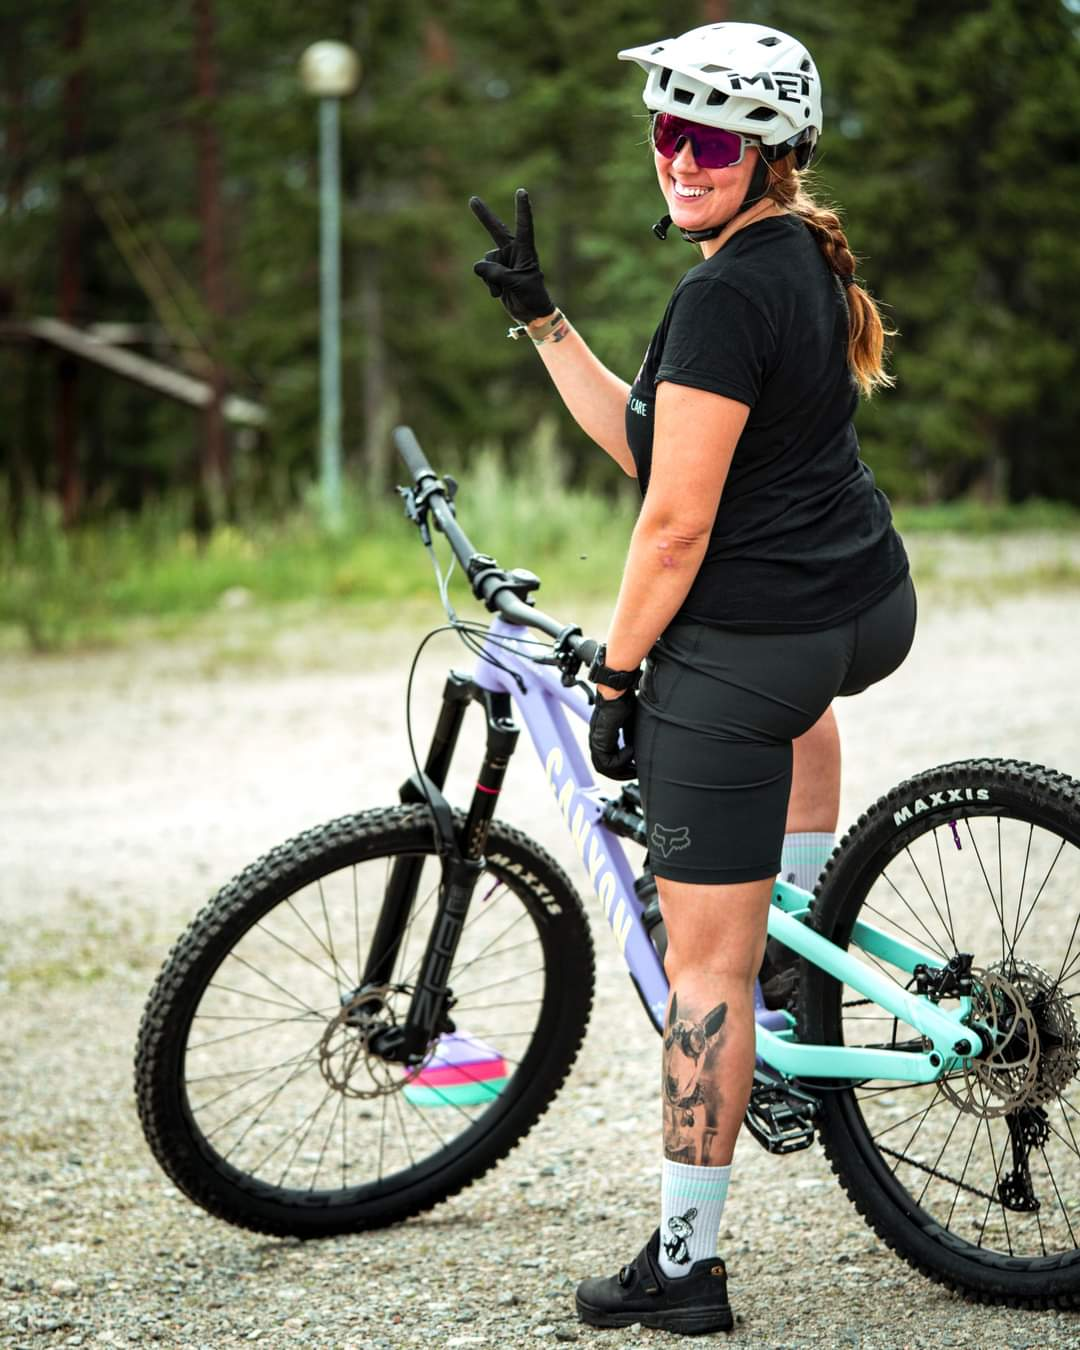
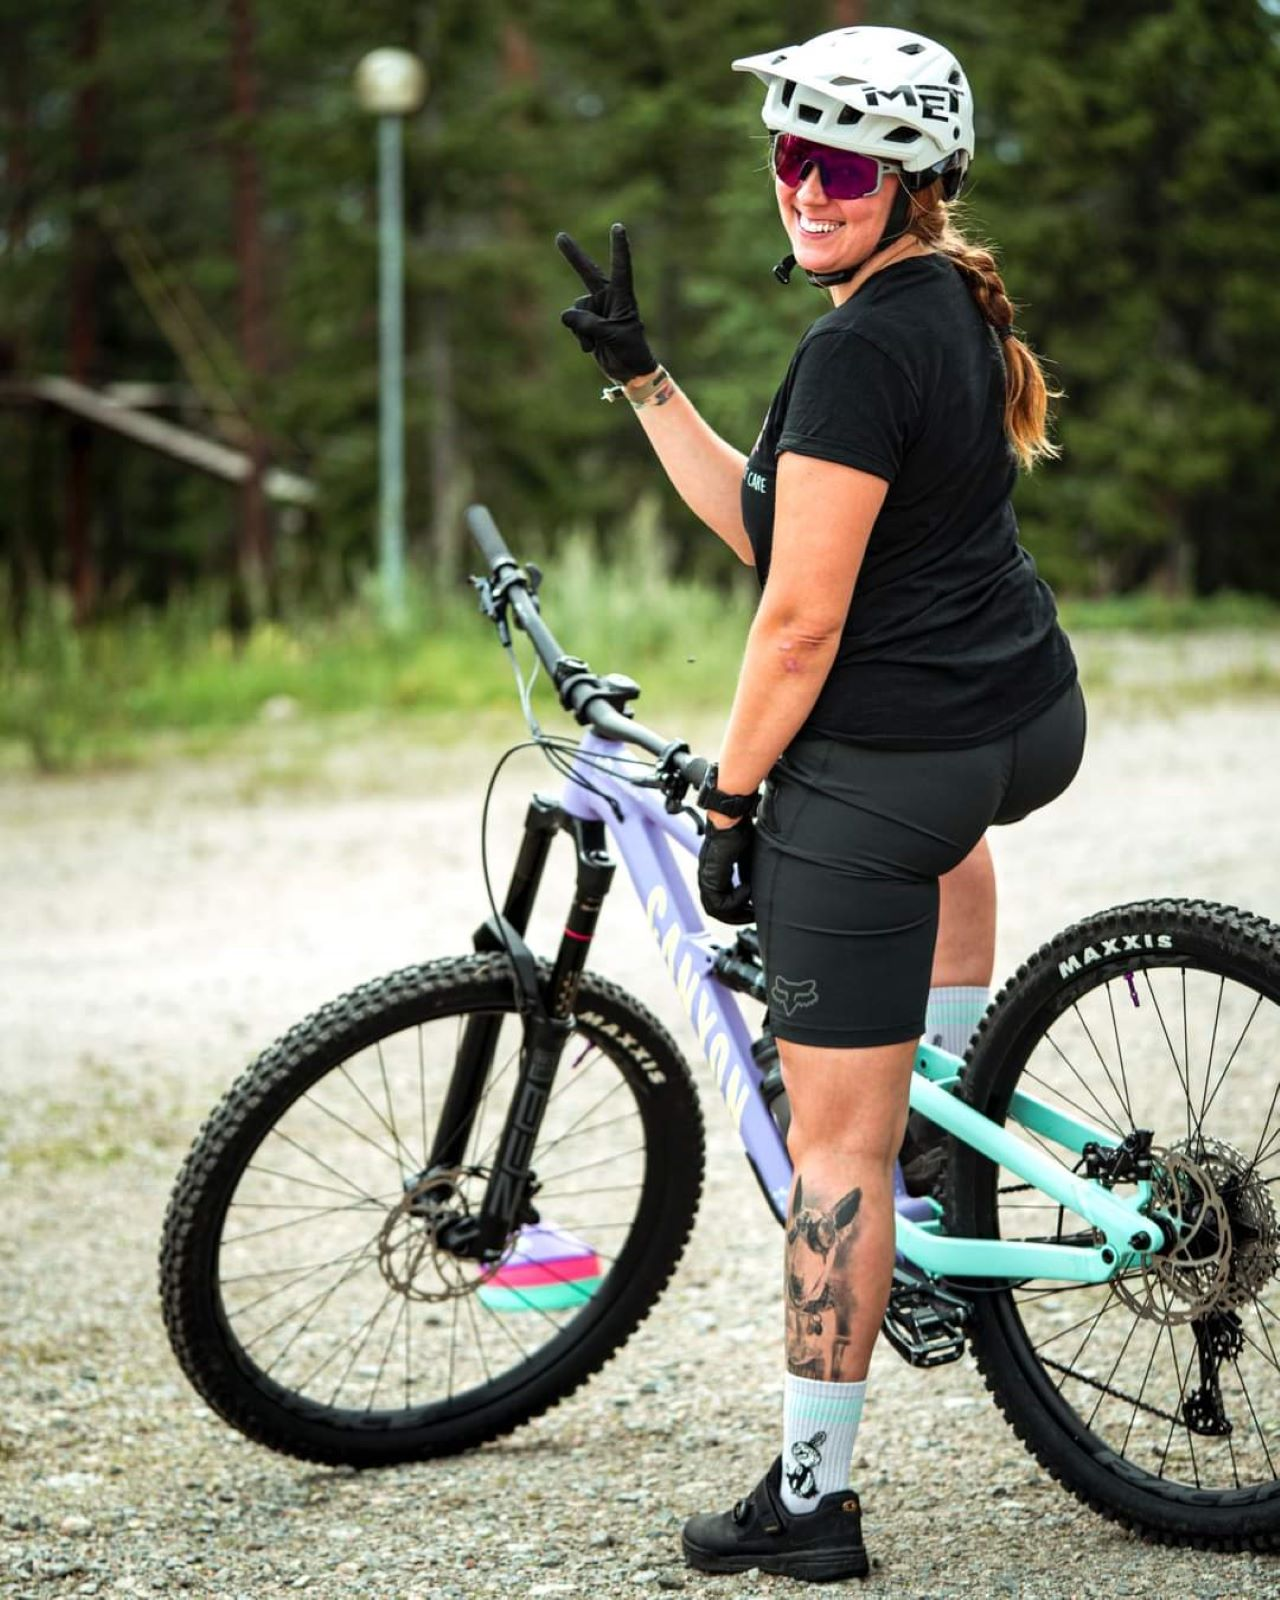
kuvien muutoksia + carousel container

diff --git a/WS12/portfolio.html b/WS12/portfolio.html
@@ -44,6 +44,7 @@
 <br>
 <br>
 <div class="container">
+  <div class="col-50">
   <div id="myCarousel" class="carousel slide" data-ride="carousel">
     <!-- Indicators -->
     <ol class="carousel-indicators">
@@ -55,11 +56,11 @@
     <!-- Wrapper for slides -->
     <div class="carousel-inner">
       <div class="item active">
-        <img src="https://tengska.github.io/git_harjoitus/WS12/images/pusscamp_springbreak.jpg" alt="Los Angeles" style="width:100%;">
+        <img src="https://tengska.github.io/git_harjoitus/WS12/images/pusscamp_weekend2.jpg" alt="Los Angeles" style="width:100%;">
       </div>
 
       <div class="item">
-        <img src="https://tengska.github.io/git_harjoitus/WS12/images/pusscamp_springbreak.jpg" alt="Chicago" style="width:100%;">
+        <img src="https://tengska.github.io/git_harjoitus/WS12/images/droppinghot.jpg" alt="Chicago" style="width:100%;">
               <div class="carousel-caption">
         <h3>Los Angeles</h3>
         <p>LA is always so much fun!</p>
@@ -67,9 +68,10 @@
       </div>
     
       <div class="item">
-        <img src="https://tengska.github.io/git_harjoitus/WS12/images/pusscamp_springbreak.jpg" alt="New york" style="width:100%;">
+        <img src="https://tengska.github.io/git_harjoitus/WS12/images/studio_syksy_karla.jpg" alt="New york" style="width:100%;">
       </div>
     </div>
+    
 
     <!-- Left and right controls -->
     <a class="left carousel-control" href="#myCarousel" data-slide="prev">
@@ -81,6 +83,7 @@
       <span class="sr-only">Next</span>
     </a>
   </div>
+</div>
 </div>
 
 </body>
